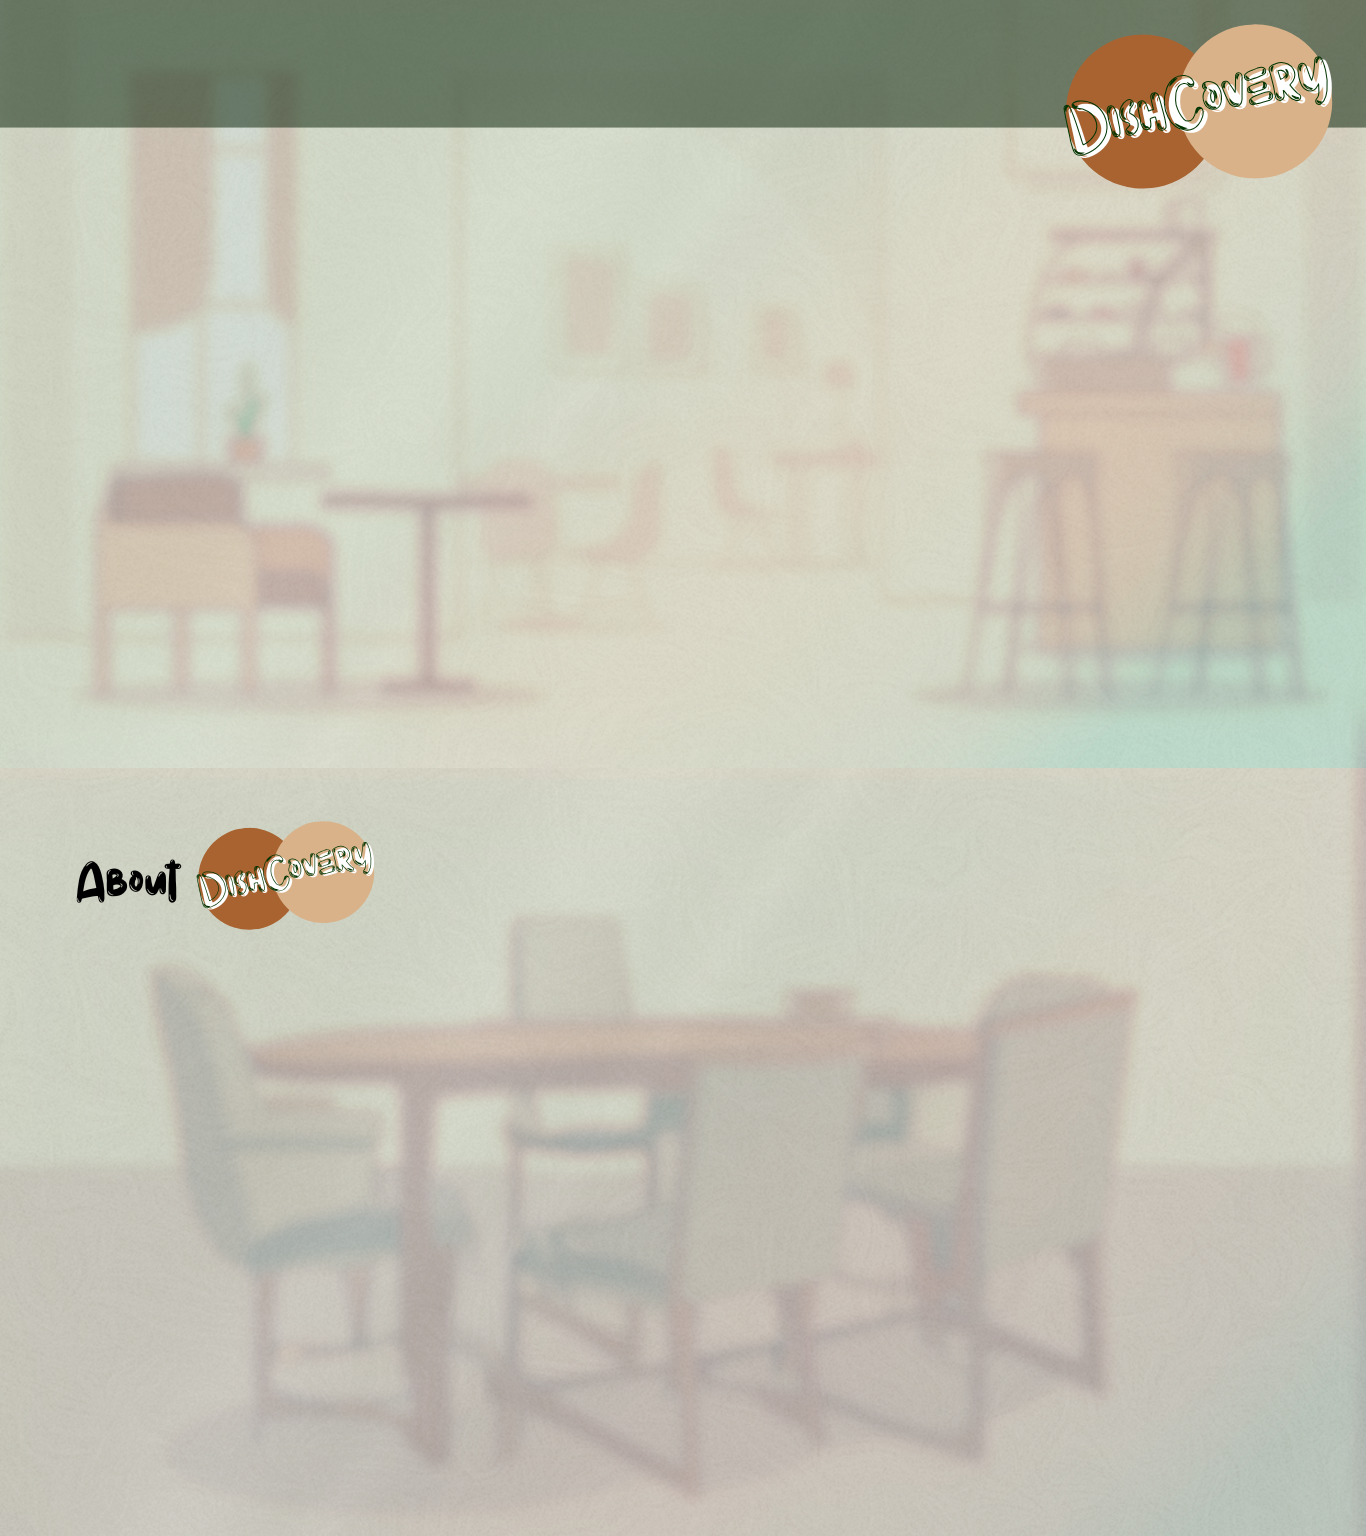
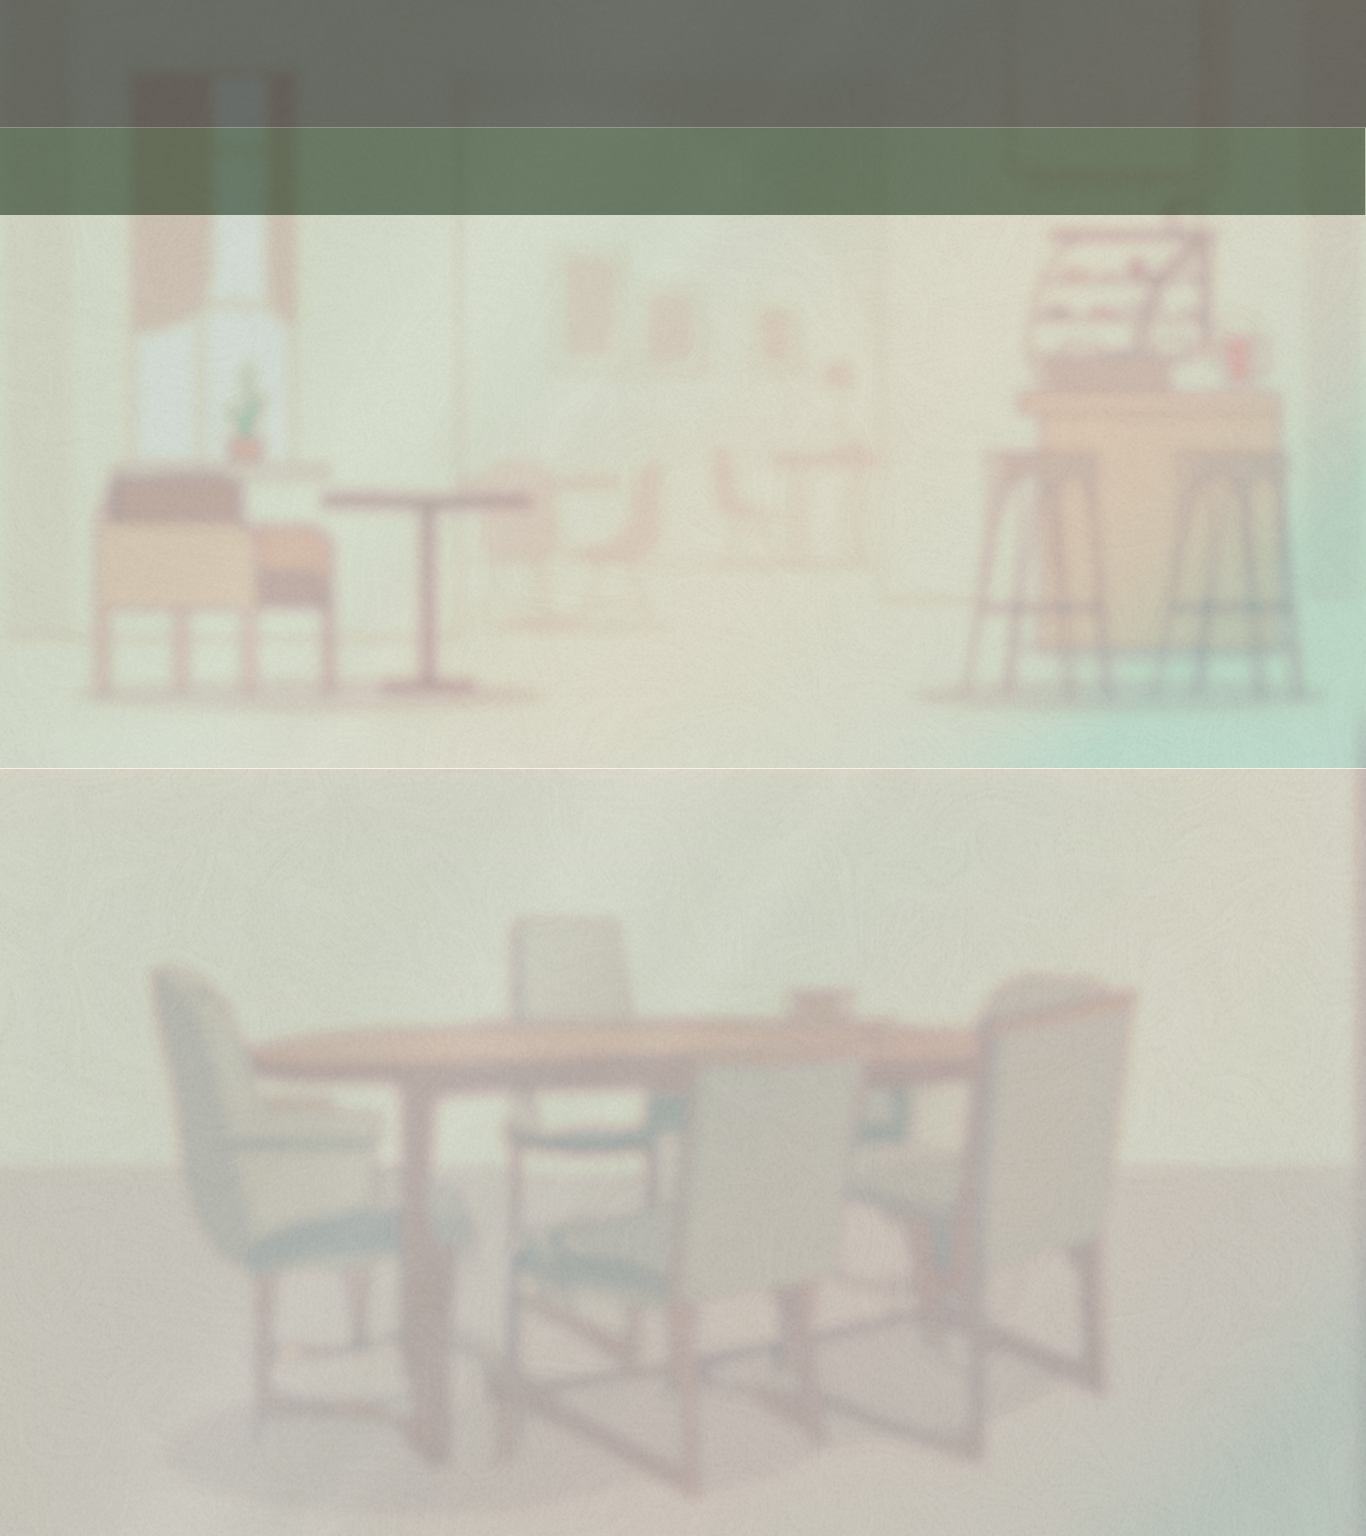
maininterf

Changed region(s): [[0.0, 0.0, 1.0, 0.1562], [0.0615, 0.5312, 0.2767, 0.625]]

diff --git a/index.html b/index.html
@@ -18,10 +18,10 @@
     }
 
     .main-section {
-      background: url('mainbg.png') no-repeat center center/cover;
+      background: url('images/mainbg.png') no-repeat center center/cover;
       color: #fff;
       width: 100%;
-      min-height: 200vh; /* since it's two sections worth */
+      min-height: 200vh;
       display: flex;
       flex-direction: column;
       justify-content: center;
@@ -30,104 +30,272 @@
       padding: 2rem;
     }
 
+    @media (max-width: 768px) {
+      .main-section {
+        background: url('images/mainbgmobile.png') no-repeat center center/cover;
+        background-attachment: scroll;
+      }
+    }
+
+    .hero-section {
+      margin-bottom: 5%;
+      text-align: center;
+    }
+
     .tagline {
-      font-size: 2.5rem;
-      margin-bottom: 1rem;
+      font-size: 4rem;
+      color: #000;
+      margin-right: 20rem;
+      position: relative;
+      display: inline-block;
+      overflow: hidden;
+      background: linear-gradient(90deg, #000000 0%, #fff59b 50%, #000000 100%);
+      background-size: 200% auto;
+      -webkit-background-clip: text;
+      -webkit-text-fill-color: transparent;
+      animation: goldShine 18s linear infinite;
     }
 
-    .description {
-      font-size: 1.2rem;
-      max-width: 800px;
-      margin-bottom: 2rem;
-      line-height: 1.6;
+    @keyframes goldShine {
+      0% { background-position: 200% center; }
+      100% { background-position: -200% center; }
     }
 
-    .start-button {
-      font-size: 1.2rem;
-      background: #c97946;
+    .short-description {
+      font-size: 1rem;
+      max-width: 1100px;
+      padding-bottom: 35rem;
+      color: black;
+      letter-spacing: 3px;
+    }
+
+    .container {
+      display: flex;
+      justify-content: flex-end;
+      width: 100%;
+      margin-top: -30%;
+    }
+
+    .dishcoverypic {
+      max-width: 400px;
+      border-radius: 100px;
+      margin-right: -2%;
+      margin-bottom: 5%;
+      margin-top: 5%;
+    }
+
+    .about {
+      max-width: 500px;
+      border-radius: 100px;
+      margin-right: 72%;
+      margin-bottom: 3%;
+      margin-top: -13%;
+    }
+
+    .aboutdish, .aboutdish2, .aboutdish3 {
+      font-size: 1rem;
+      max-width: 900px;
+      color: black;
+      letter-spacing: 2px;
+      line-height: 1.5;
+      font-family: 'Times New Roman', Times, serif;
+      text-align: left;
+      margin-left: 20%;
+      margin-top: 1.5%;
+    }
+
+    .aboutdish3 {
+      font-size: 1.3rem;
+      margin-top: 3%;
+      font-style: italic;
+      background: linear-gradient(90deg, #000000 0%, #fff59b 50%, #000000 100%);
+      background-size: 200% auto;
+      -webkit-background-clip: text;
+      -webkit-text-fill-color: transparent;
+      animation: goldShine 18s linear infinite;
+    }
+
+    .randomizer-link,
+    .dishclopedia-link {
+      position: absolute;
+      top: 70px;
+      z-index: 1000;
+    }
+
+    .randomizer-link { left: 60px; }
+    .dishclopedia-link { left: 280px; }
+
+    .randomizer-link a,
+    .dishclopedia-link a {
       color: white;
-      padding: 0.6rem 1.5rem;
-      border: none;
-      border-radius: 10px;
       text-decoration: none;
-      transition: transform 0.2s ease;
+      font-size: 1rem;
+      font-family: 'Times New Roman', Times, serif;
+      transition: opacity 0.3s ease;
+      letter-spacing: 3px;
     }
 
-    .start-button:hover {
-      transform: scale(1.05);
+    .randomizer-link a:hover,
+    .dishclopedia-link a:hover {
+      opacity: 0.3;
     }
 
-    .return-top {
-      margin-top: 2rem;
-      font-size: 0.9rem;
-      color: #555;
+    #secret-logo {
+      width: 80px;
+      position: absolute;
+      bottom: 30px;
+      right: 30px;
+      cursor: pointer;
+      opacity: 0.5;
+      transition: opacity 0.3s ease;
     }
 
+    #secret-logo:hover {
+      opacity: 1;
+    }
+
+    /* Hide mobile About by default */
+    .about-mobile {
+      display: none;
+    }
+
+    /* Responsive styles */
     @media (max-width: 768px) {
       .tagline {
-        font-size: 1.8rem;
+        font-size: 2rem;
+        margin-right: 0;
+        text-align: center;
       }
 
-      .description {
-        font-size: 1rem;
+      .short-description {
+        font-size: 0.9rem;
+        padding-bottom: 10rem;
+        text-align: center;
       }
 
-      .start-button {
-        font-size: 1rem;
+      .hero-section {
+        margin-bottom: 2rem;
       }
+
+      .container {
+        flex-direction: column;
+        align-items: center;
+        margin-top: 0;
+      }
+
+      .dishcoverypic, .about {
+        max-width: 80%;
+        margin: 2rem auto;
+        display: block;
+      }
+
+      .aboutdish, .aboutdish2, .aboutdish3 {
+        font-size: 0.9rem;
+        text-align: center;
+        margin: 1rem auto;
+        margin-top: 1.5%;
+      }
+
+      .randomizer-link, .dishclopedia-link {
+        position: absolute;
+        top: 10px;
+      }
+
+      .randomizer-link { left: 10px; }
+      .dishclopedia-link { right: 10px; left: auto; }
+
+      .randomizer-link a, .dishclopedia-link a {
+        font-size: 0.8rem;
+        letter-spacing: 2px;
+      }
+
+      #secret-logo {
+        width: 60px;
+        bottom: 15px;
+        right: 15px;
+      }
+
+      /* Hide desktop about, show mobile about */
+      .about-desktop { display: none; }
+      .about-mobile { display: block; }
     }
   </style>
 </head>
 <body>
 
-  <!-- Hero Section -->
-  <section class="section-1" id="top">
-    <div>
-      <h1 class="tagline">Your Interactive Food Decision Helper</h1>
-      <p class="description">
-        Search | Find | Eat | Guide | Decide | Help | Indulge | Interact | Guess | Fun | Satisfy | Enjoy | Stress-Free
+  <!-- RANDOMIZER Link -->
+  <div class="randomizer-link">
+    <a href="listofgames.html">RANDOMIZER</a>
+  </div>
+
+  <!-- DISHCLOPEDIA Link -->
+  <div class="dishclopedia-link">
+    <a href="Dishclopedia/dishclopedia.html">DISHCLOPEDIA</a>
+  </div>
+
+  <!-- Main Section -->
+  <section class="main-section" id="top">
+    <!-- Right-aligned image -->
+    <div class="container">
+      <img src="images/dishcovery.png" class="dishcoverypic" />
+    </div>
+
+    <!-- Hero Text -->
+    <div class="hero-section">
+      <h1 class="tagline">Your Interactive Food Discovery Helper</h1>
+      <p class="short-description">
+        Search | Find | Eat | Guide | Decide | Help | Indulge | Interact | Guess | Play | Satisfy | Enjoy | Stress-Free
       </p>
-      <a href="randomizer.html" class="start-button">Start</a>
+    </div>
+
+    <!-- Mobile About Section (hidden on desktop) -->
+    <div class="about-mobile">
+      <div class="container">
+        <img src="images/aboutmain.png" class="about" />
+      </div>
+      <div class="about1">
+        <p class="aboutdish">
+          DishCovery is an interactive food decision helper designed to make choosing what to eat quick, fun, and stress-free. Whether you’re stuck between cravings or just looking for inspiration, DishCovery guides you through a simple process to help you discover the perfect meal tailored to your mood, preferences, and available time.
+        </p>
+      </div>
+      <div class="about2">
+        <p class="aboutdish2">
+          Don’t know what to cook? We’ve got recipe suggestions. Want to grab something fast? We’ll help you decide. DishCovery takes the guesswork out of mealtime and turns decision-making into a delightful experience.
+        </p>
+      </div>
+      <div class="about3">
+        <p class="aboutdish3"><b>Start your food journey with DishCovery! Because great meals begin with great decisions.</b></p>
+      </div>
     </div>
   </section>
 
-  <!-- About Section -->
-  <section class="section-2">
-    <div>
-      <h2>About <img src="images/signboard.png" alt="DishCovery Logo" style="width: 100px; vertical-align: middle;"></h2>
-      <p class="description">
+  <!-- Desktop About Section (hidden on mobile) -->
+  <div class="about-desktop">
+    <div class="container">
+      <img src="images/aboutmain.png" class="about" />
+    </div>
+    <div class="about1">
+      <p class="aboutdish">
         DishCovery is an interactive food decision helper designed to make choosing what to eat quick, fun, and stress-free. Whether you’re stuck between cravings or just looking for inspiration, DishCovery guides you through a simple process to help you discover the perfect meal tailored to your mood, preferences, and available time.
-        <br><br>
-        Don’t know what to cook? We’ve got recipe suggestions. Want to grab something fast? We’ll help you decide. DishCovery takes the guesswork out of mealtime and turns decision-making into a delightful experience.
-        <br><br>
-        Start your food journey with <strong>DishCovery</strong>! Because great meals begin with great decisions.
       </p>
-      <a href="#top" class="return-top">↑ Return to Top</a>
     </div>
-  </section>
+    <div class="about2">
+      <p class="aboutdish2">
+        Don’t know what to cook? We’ve got recipe suggestions. Want to grab something fast? We’ll help you decide. DishCovery takes the guesswork out of mealtime and turns decision-making into a delightful experience.
+      </p>
+    </div>
+    <div class="about3">
+      <p class="aboutdish3"><b>Start your food journey with DishCovery! Because great meals begin with great decisions.</b></p>
+    </div>
+  </div>
 
-  <!-- Secret Triple Tap Redirect -->
+  <!-- Secret Admin Access -->
+  <img id="secret-logo" src="images/dishcovery.png" alt="Admin Access" ondblclick="redirectToAdmin()" />
+
   <script>
-    const signboard = document.querySelector('img[alt="DishCovery Logo"]');
-    let tapCount = 0;
-    let timeout;
-
-    signboard.addEventListener('click', () => {
-      tapCount++;
-
-      if (tapCount === 1) {
-        timeout = setTimeout(() => {
-          tapCount = 0;
-        }, 1000);
-      }
-
-      if (tapCount === 3) {
-        clearTimeout(timeout);
-        tapCount = 0;
-        window.location.href = 'admin-login/login.html';
-      }
-    });
+    function redirectToAdmin() {
+      window.location.href = "admin-login/login.html";
+    }
   </script>
-
 </body>
 </html>
